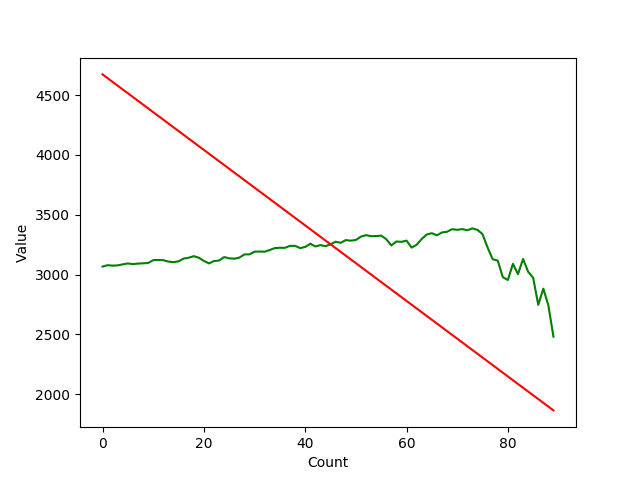
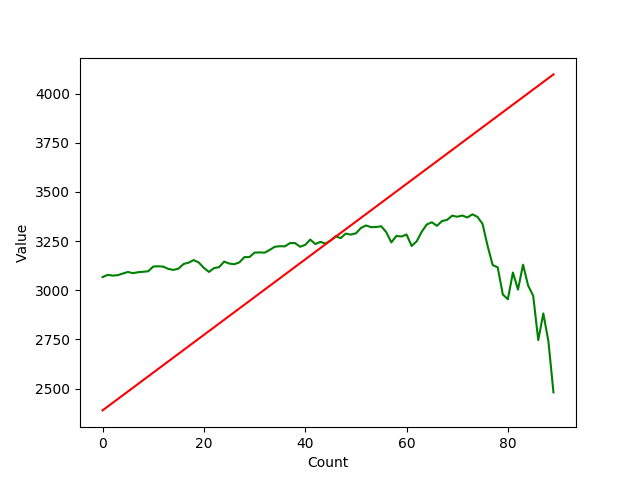
Automated Commision

diff --git a/prediction/sequential.py b/prediction/sequential.py
@@ -40,7 +40,7 @@ def regression_momentum_bias(timeseries, observation_range):
             low = i
     high_low_slope = (timeseries.raw_datapoint(high) - timeseries.raw_datapoint(low)) / (high - low)
     
-    slope = (high_low_slope + end_point_slope) / 2 # growth rate (regression slope)
+    slope = sqrt(high_low_slope * end_point_slope) # growth rate (regression slope)
     
     midpoint = int(timeseries.raw_size() / 2)
     line_bias = timeseries.raw_datapoint(0) + timeseries.raw_datapoint(midpoint) - (slope * midpoint + timeseries.raw_datapoint(0))
